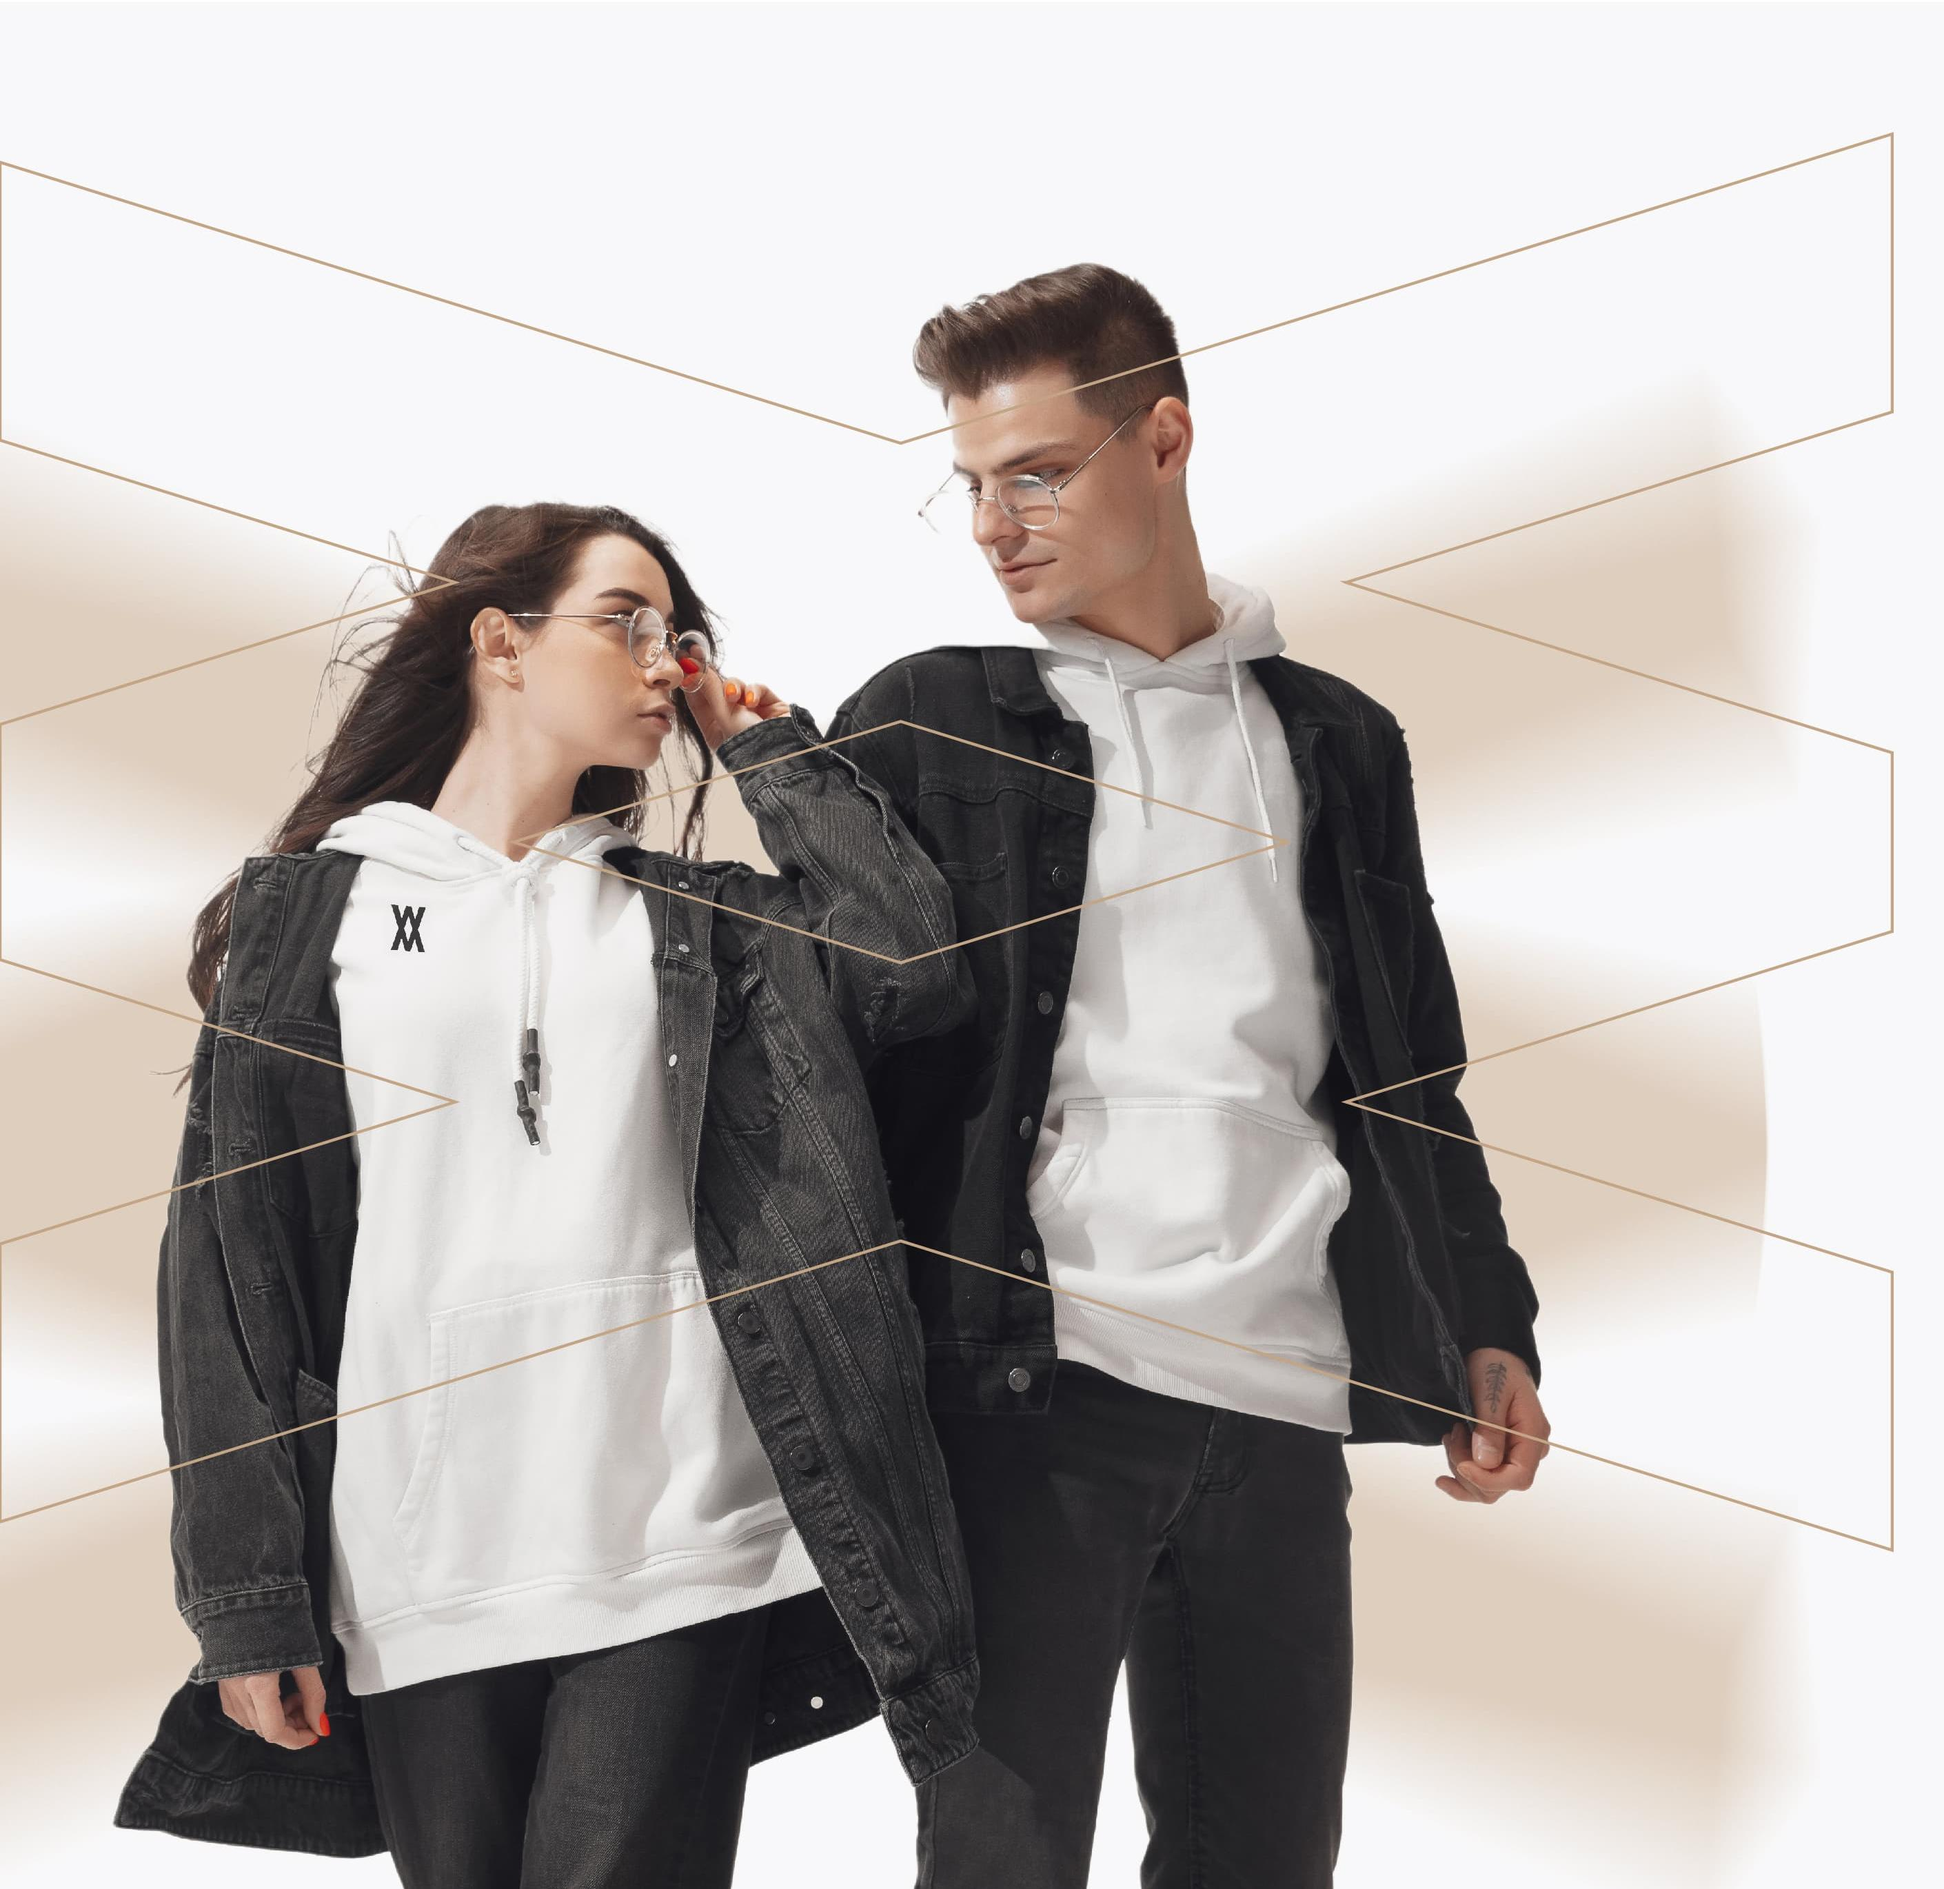
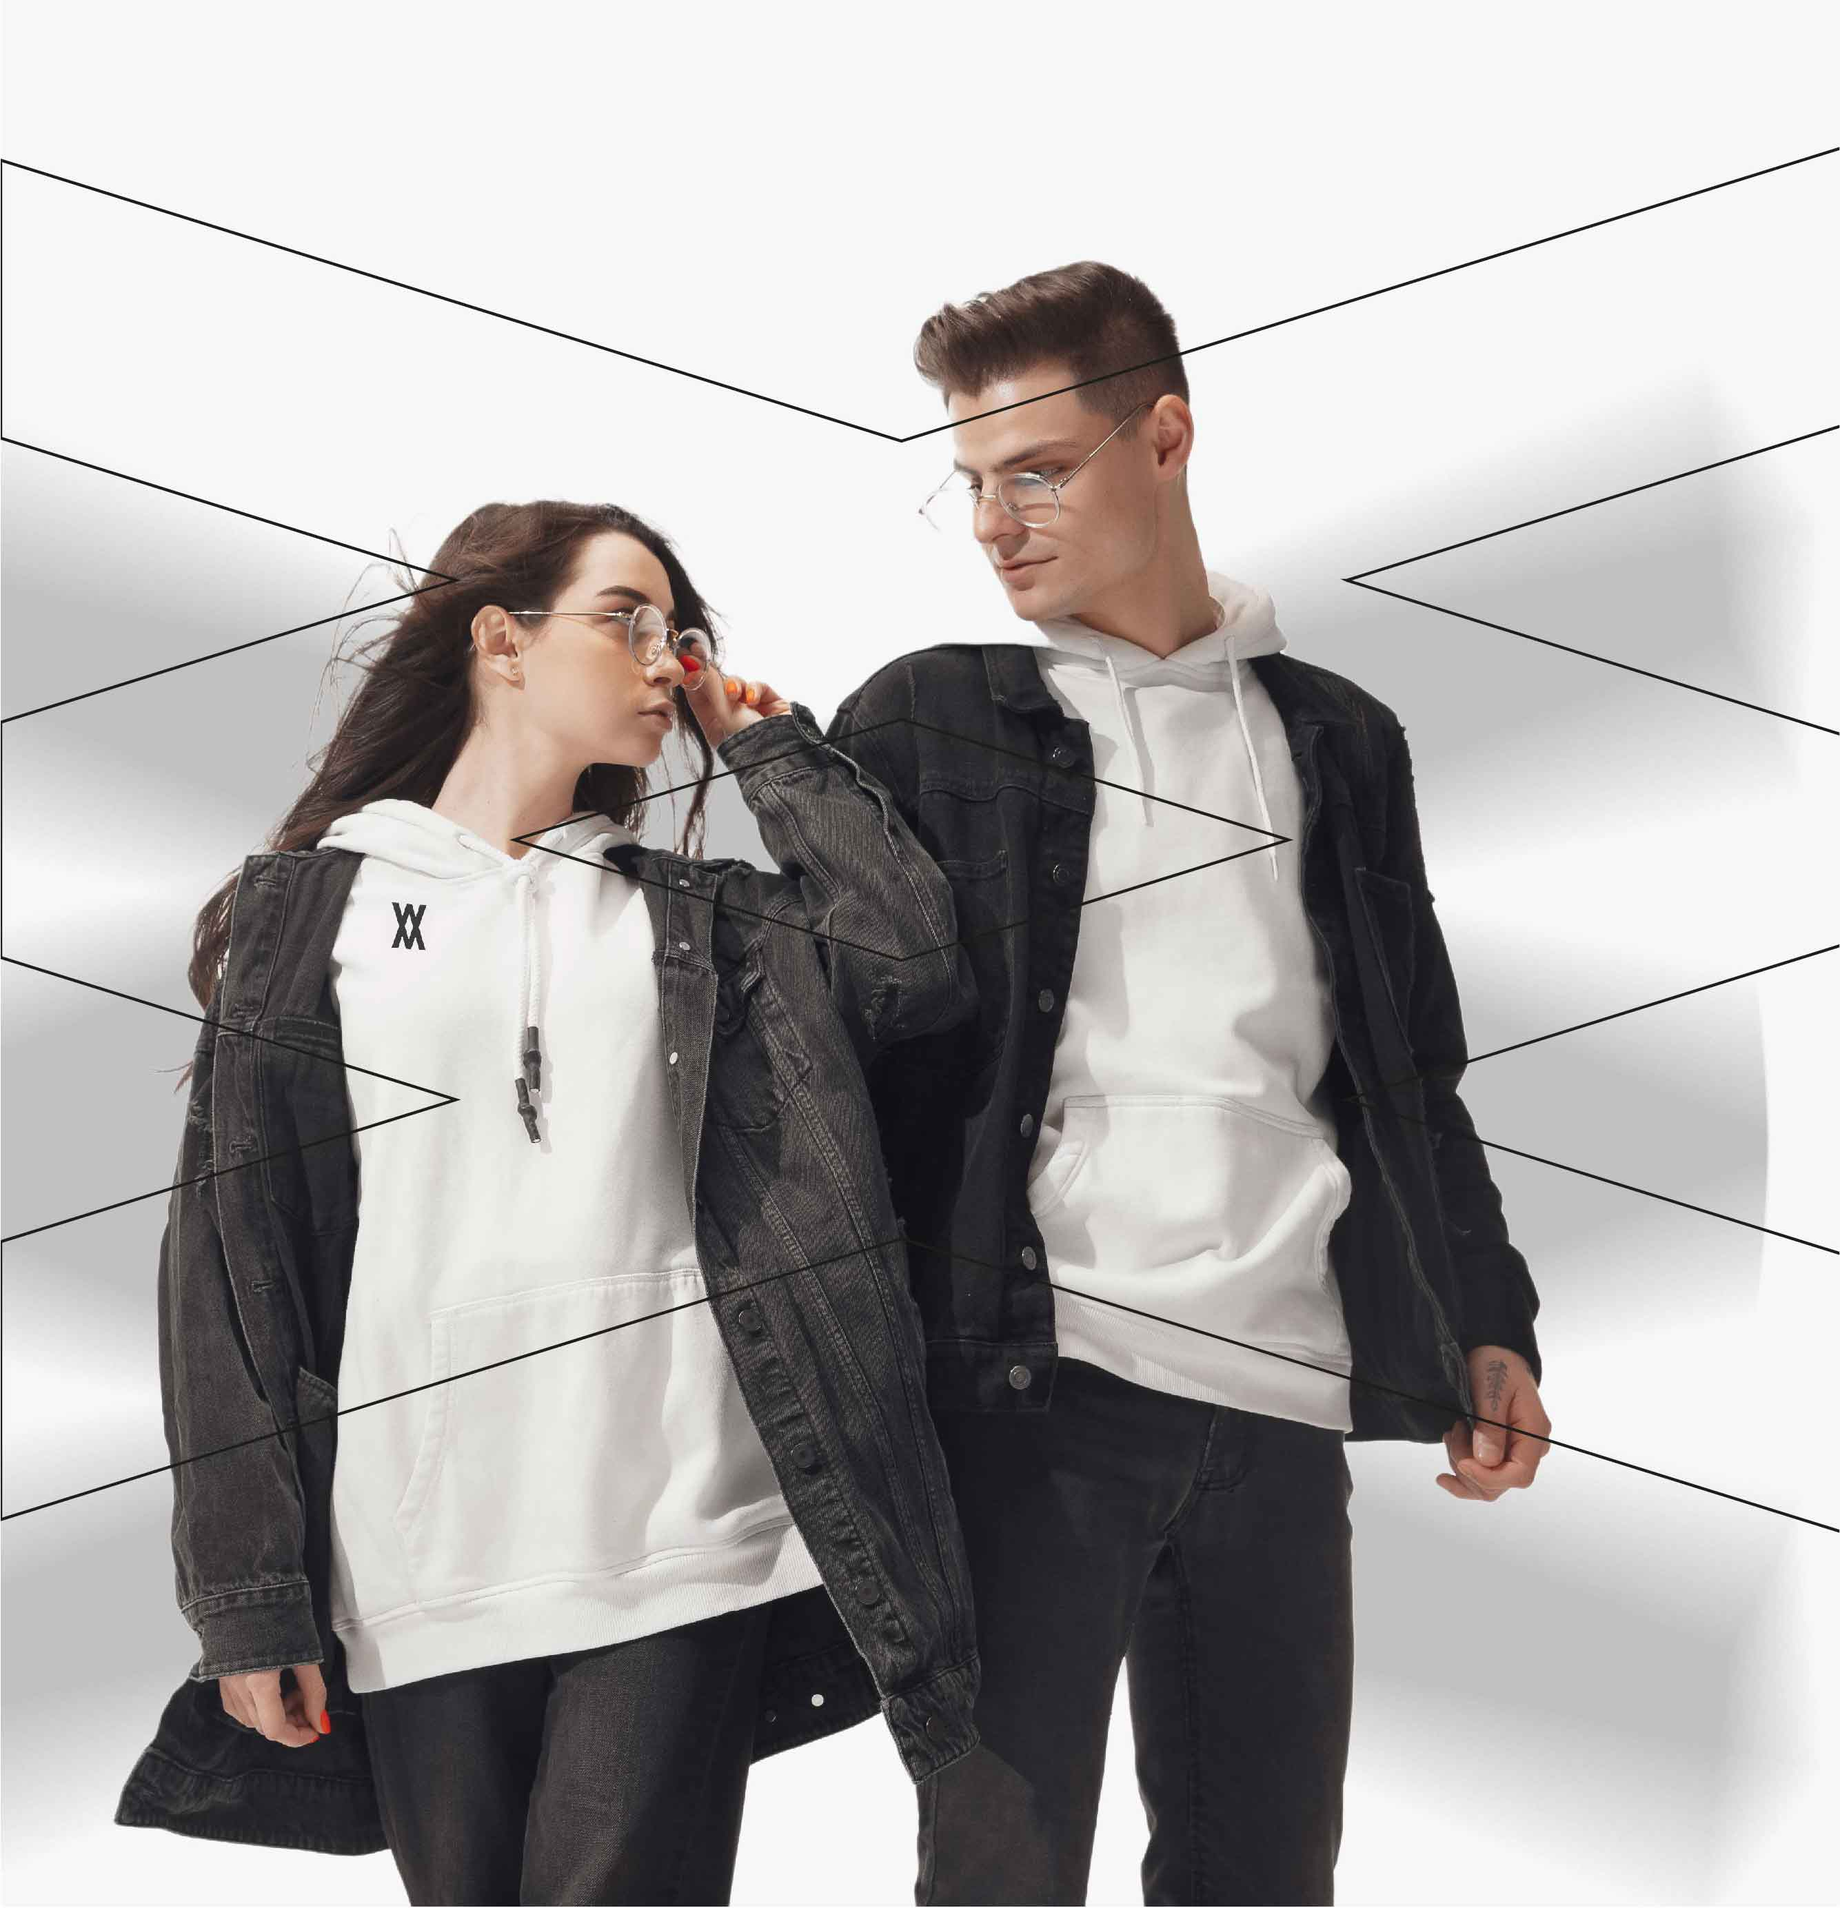
user_interface_update

diff --git a/src/storefront/context/StoreTheme.tsx b/src/storefront/context/StoreTheme.tsx
@@ -1,10 +1,10 @@
 'use client'
 
 import { createTheme } from "@mui/material/styles";
-import { brown } from '@mui/material/colors';
+import { grey } from '@mui/material/colors';
 
-const primaryMain = brown[500];
-const primaryLight = brown[300];
+const primaryMain = grey[900];
+const primaryLight = grey[800];
 
 const theme = createTheme({
   breakpoints: {
@@ -18,8 +18,8 @@ const theme = createTheme({
   },
   palette: {
     primary: {
-      light: brown[300],
-      main: brown[500],
+      light: grey[800],
+      main: grey[900],
       contrastText: '#ffffff',
 
     },
@@ -32,10 +32,10 @@ const theme = createTheme({
       styleOverrides: {
         root: {
           "&.MuiButton-contained": {
-            backgroundColor: brown[300],
+            backgroundColor: grey[800],
 
             "&.MuiButton-contained:hover": {
-              backgroundColor: brown[500],
+              backgroundColor: grey[900],
             },
 
           }
@@ -48,7 +48,7 @@ const theme = createTheme({
         {
           props: { color: 'filled' },
           style: {
-            backgroundColor: brown[300],
+            backgroundColor: grey[800],
           },
         },
       ],
@@ -60,7 +60,7 @@ const theme = createTheme({
         {
           props: { color: 'primary' },
           style: {
-            backgroundColor: brown[300],
+            backgroundColor: grey[800],
 
           }
         }

diff --git a/src/storefront/components/homepage/components/HeroSection.tsx b/src/storefront/components/homepage/components/HeroSection.tsx
@@ -11,6 +11,10 @@ export function HeroSection() {
         "backgroundImage": "url('assets/heroBackground.jpg')",
         "backgroundSize": "cover",
     }
+    const boxStyle_2= {
+        "backgroundImage": "url('assets/heroBackground1.jpg')",
+        "backgroundSize": "cover",
+    }
 
     const boxClassName = clsx([
         "flex-1 mt-2 w-full h-full absolute z-0 opacity-10 ",
@@ -32,14 +36,7 @@ export function HeroSection() {
     return (
         <Box className={containerClassName} >
             <Box className={boxClassName} sx={boxStyle} />
-
-            <Paper className={paperClassName} color="primary">
-                <DisplayTypography  className="text-bold" color="white" text="Welcome to" />
-                <div className="flex flex-row justify-center items-center">
-                <Logo color="#ffffff"/>
-                <DisplayTypography  className="text-bold" color="white" text="instaverse" />
-                </div>
-            </Paper>
+            <Box className={boxClassName} sx={boxStyle_2} />
         </Box>
     )
 }

diff --git a/src/adminapp/components/context/AdminTheme.tsx b/src/adminapp/components/context/AdminTheme.tsx
@@ -2,7 +2,7 @@
 
 import { createTheme } from "@mui/material/styles";
 
-import { brown } from '@mui/material/colors';
+import { grey } from '@mui/material/colors';
 
 const theme = createTheme({
   breakpoints: {
@@ -16,8 +16,8 @@ const theme = createTheme({
   },
   palette: {
     primary: {
-      light: brown[300],
-      main: brown[500],
+      light: grey[900],
+      main: grey[800],
       contrastText: '#ffffff',
 
     },
@@ -30,10 +30,10 @@ const theme = createTheme({
       styleOverrides: {
         root: {
           "&.MuiButton-contained": {
-            backgroundColor: brown[300],
+            backgroundColor: grey[900],
 
             "&.MuiButton-contained:hover": {
-              backgroundColor: brown[500],
+              backgroundColor: grey[800],
             },
 
           }
@@ -45,7 +45,7 @@ const theme = createTheme({
         {
           props: { color: 'filled' },
           style: {
-            backgroundColor: brown[300],
+            backgroundColor: grey[900],
           },
         },
       ],

diff --git a/tailwind.config.js b/tailwind.config.js
@@ -21,7 +21,7 @@ module.exports = {
         "screen-1/2" : "50vh",
       },
       colors : {
-        'primary' : '#795548',
+        'primary' : '#000000',
       }
     },
   },
